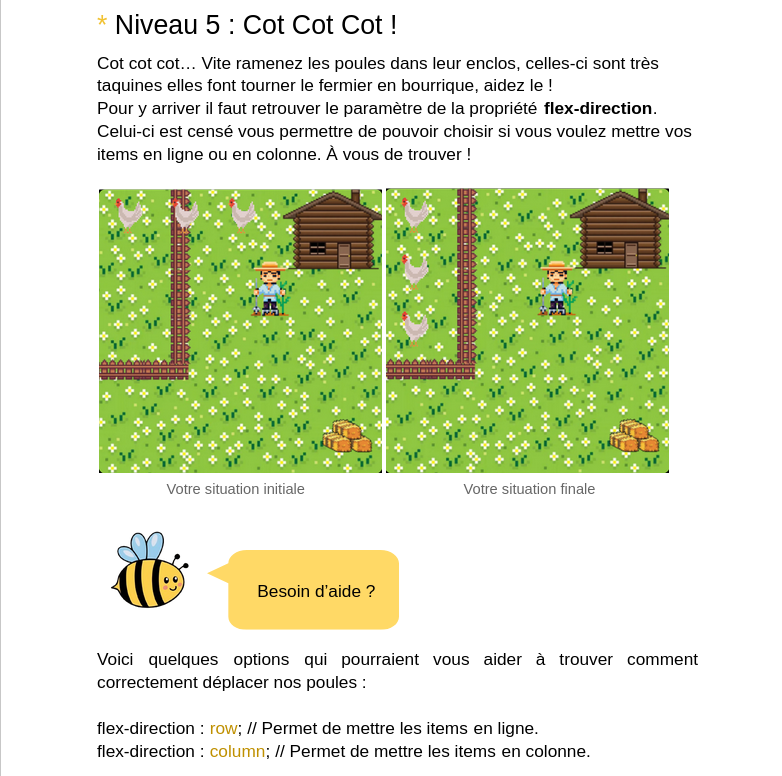
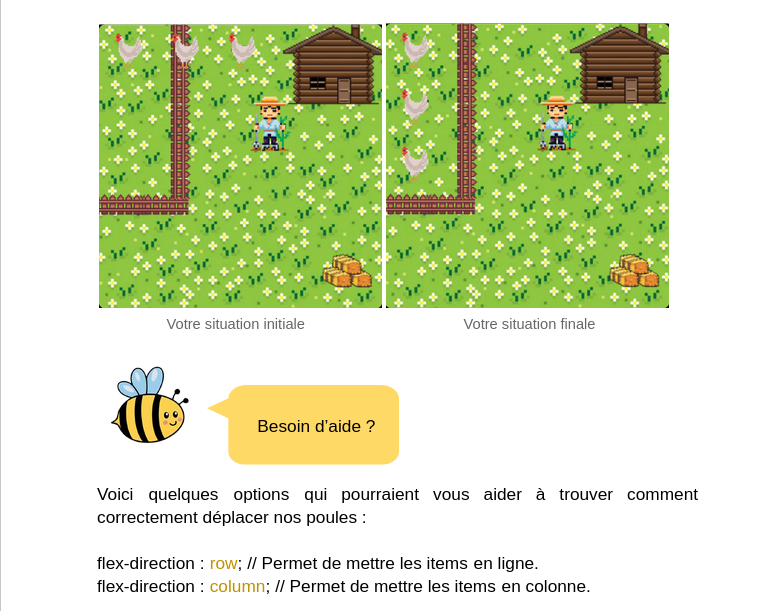
image size

diff --git a/index.html b/index.html
@@ -130,8 +130,8 @@
                     <p><strong>Compétences dévelopées :</strong> Designer un jeu éducatif, écrire des consignes claires, répondre à un besoin</p>
                     <p><strong>Rendu Graphique :</strong> </p>
                     <div class="rendu">
-                        <img id="lvl1" src="./img/JPO1.png" alt="">
-                        <img src="./img/JPO2.png" alt="">
+                        <img id="JPO1" src="./img/JPO1.png" alt="">
+                        <img id="JPO2" src="./img/JPO2.png" alt="">
                     </div>
                 </div>
             </div>
@@ -179,7 +179,6 @@
         });
         document.addEventListener("DOMContentLoaded", function () {
         const projectLinks = document.querySelectorAll('.dropdown-content a');
-
         projectLinks.forEach(link => {
             link.addEventListener('click', function (e) {
                 setTimeout(() => {
@@ -196,7 +195,7 @@
                             detailDiv.style.flexDirection = 'column';
                         }
                     }
-                }, 300);
+                }, 0);
             });
         });
     });

diff --git a/index.css b/index.css
@@ -146,12 +146,13 @@ nav a:hover{
 .expe{
     display: flex;
     flex-direction: column;
+    scroll-margin-top: 80px;
 }
 
 
 
 .rendu img{
-    width: 30%;
+    width: 49%;
 }
 
 h2 img {
@@ -168,11 +169,11 @@ h2 img:hover {
 }
 
 #MTA1{
-    width: 22%;
+    width: 35%;
 }
 
 #MTA2{
-    width: 40%;
+    width: 64%;
 }
 
 #BD1{
@@ -182,9 +183,14 @@ h2 img:hover {
     width: 45%;
 }
 
-#lvl1{
-    width: 36%;
+#JPO1{
+    width: 48%;
 }
+
+#JPO2{
+    width: 50%;
+}
+
 
 #comp li{
     background-color: rgb(81, 81, 139);
